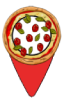
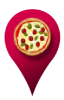
Not the best, but working information window
no menus shown, scroll and skin not used

diff --git a/core/src/main/java/si/um/feri/kompajler/screen/MapScreen.java b/core/src/main/java/si/um/feri/kompajler/screen/MapScreen.java
@@ -184,14 +184,12 @@ public class MapScreen implements Screen, GestureDetector.GestureListener {
         float height = 150 * camera.zoom;
         float padding = 10 * camera.zoom;
 
-        // Extract the restaurant details
         String name = restaurant.optString("name", "Unknown");
         String address = restaurant.optString("address", "No address available");
         String owner = restaurant.optString("owner", "Unknown owner");
         double mealPrice = restaurant.optDouble("mealPrice", 0.0);
         double mealSurcharge = restaurant.optDouble("mealSurcharge", 0.0);
 
-        // Working hours (list of days and times)
         JSONArray workingHours = restaurant.optJSONArray("workingHours");
         StringBuilder workingHoursText = new StringBuilder("Working Hours:\n");
         if (workingHours != null) {
@@ -203,7 +201,6 @@ public class MapScreen implements Screen, GestureDetector.GestureListener {
             }
         }
 
-        // Tags (list of restaurant tags)
         JSONArray tags = restaurant.optJSONArray("tags");
         StringBuilder tagsText = new StringBuilder("Tags:\n");
         if (tags != null) {
@@ -212,16 +209,14 @@ public class MapScreen implements Screen, GestureDetector.GestureListener {
             }
         }
 
-        // Ratings
         JSONArray ratings = restaurant.optJSONArray("ratings");
         float averageRating = restaurant.optFloat("averageRating", 0);
         String ratingsText = "Average Rating: " + averageRating;
 
-        // Adjusting the height for scrolling content
         float contentHeight = height;
-        float textHeight = (tagsText.length() + workingHoursText.length()) * 1.2f; // Estimate text height
-        if (textHeight > height - 50) {  // Allow some space for name and address
-            contentHeight += textHeight - height + 50;  // Expand the pop-up if content is long
+        float textHeight = (tagsText.length() + workingHoursText.length()) * 1.2f;
+        if (textHeight > height - 50) {
+            contentHeight += textHeight - height + 50;
         }
 
         shapeRenderer.setProjectionMatrix(camera.combined);
@@ -244,22 +239,18 @@ public class MapScreen implements Screen, GestureDetector.GestureListener {
         float fontSize = 20 * camera.zoom;
         font.getData().setScale(fontSize / 20);
 
-        // Drawing name, address, and other information
         font.draw(batch, name, position.x - width / 2 + padding, position.y - padding);
         font.draw(batch, address, position.x - width / 2 + padding, position.y - padding - 20 * camera.zoom);
         font.draw(batch, ratingsText, position.x - width / 2 + padding, position.y - padding - 40 * camera.zoom);
 
-        // Display working hours and tags (scrollable area logic can be added here for long text)
-        float contentY = position.y - padding - 60 * camera.zoom;  // Adjust starting Y position
+        float contentY = position.y - padding - 60 * camera.zoom;
         font.draw(batch, workingHoursText.toString(), position.x - width / 2 + padding, contentY);
 
-        contentY -= (workingHoursText.length() * 1.2f); // Adjust based on the content height
+        contentY -= (workingHoursText.length() * 1.2f);
         font.draw(batch, tagsText.toString(), position.x - width / 2 + padding, contentY);
 
         batch.end();
     }
-
-
 
     @Override
     public void resize(int width, int height) {
@@ -298,8 +289,8 @@ public class MapScreen implements Screen, GestureDetector.GestureListener {
 
         // Draw the texture at the marker position
         float camZoom = camera.zoom; // Set a fixed size for the pin
-        float pinWidth = camZoom * texture.getWidth() / 2;
-        float pinHeight = camZoom * texture.getHeight() / 2;
+        float pinWidth = camZoom * texture.getWidth() / 2 * 0.8f;
+        float pinHeight = camZoom * texture.getHeight() / 2 * 0.8f;
         spriteBatch.draw(texture, marker.x - pinWidth / 2, marker.y, pinWidth, pinHeight);
         spriteBatch.end();
     }
@@ -369,11 +360,13 @@ public class MapScreen implements Screen, GestureDetector.GestureListener {
             selectedRestaurant = closestRestaurant;
             selectedRestaurantPosition = closestPinPosition;
         }
+        else {
+            selectedRestaurant = null;
+            selectedRestaurantPosition = null;
+        }
 
         return true;
     }
-
-
 
     private boolean pinClicked(float x, float y, Vector2 pinPosition) {
         float pinRadius = 10; // Adjust as needed

diff --git a/core/src/main/java/si/um/feri/kompajler/utils/MapRasterTiles.java b/core/src/main/java/si/um/feri/kompajler/utils/MapRasterTiles.java
@@ -35,7 +35,7 @@ public class MapRasterTiles {
     //https://www.geoapify.com/get-started-with-maps-api
     static String mapServiceUrl = "https://maps.geoapify.com/v1/tile/";
     static String token = "?&apiKey=" + Keys.GEOAPIFY;
-    static String tilesetId = "dark-matter-yellow-roads";
+    static String tilesetId = "positron";
     static String format = "@2x.png";
 
     //@2x in format means it returns higher DPI version of the image and the image size is 512px (otherwise it is 256px)
